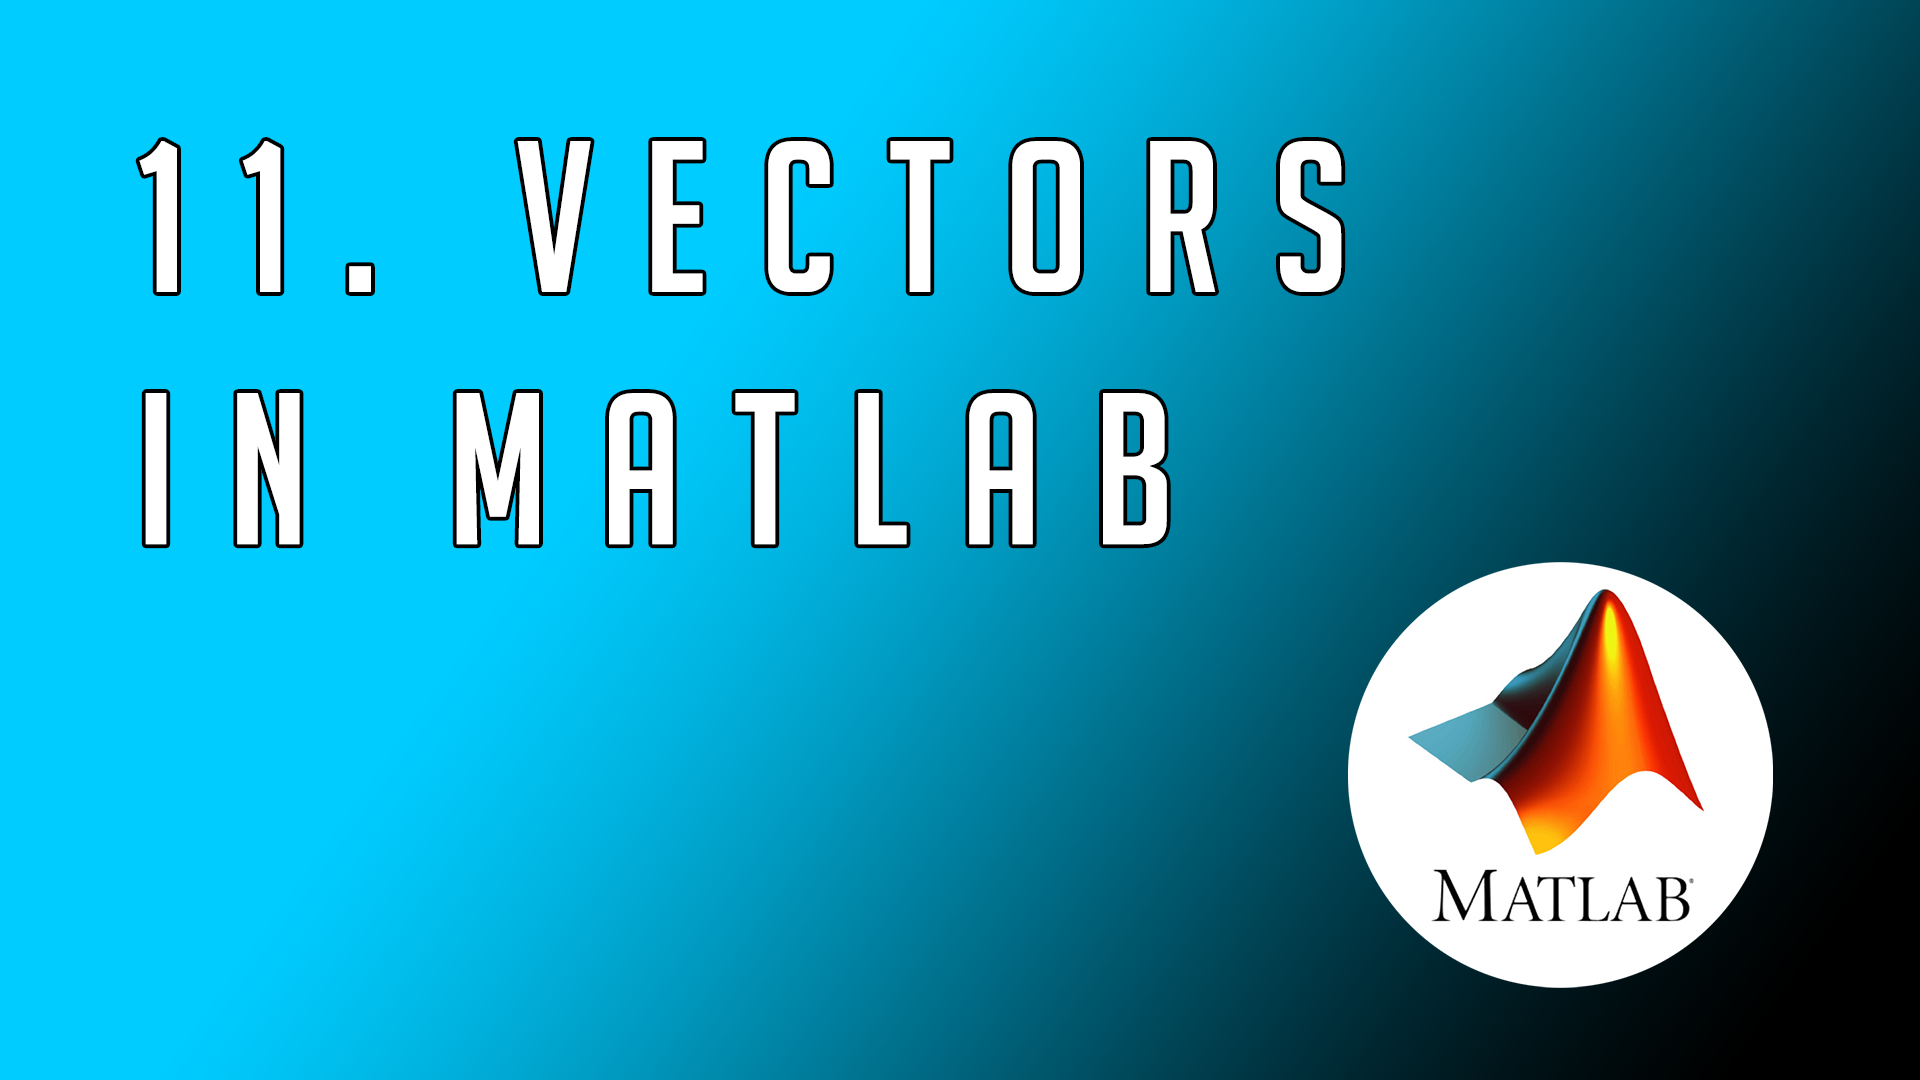
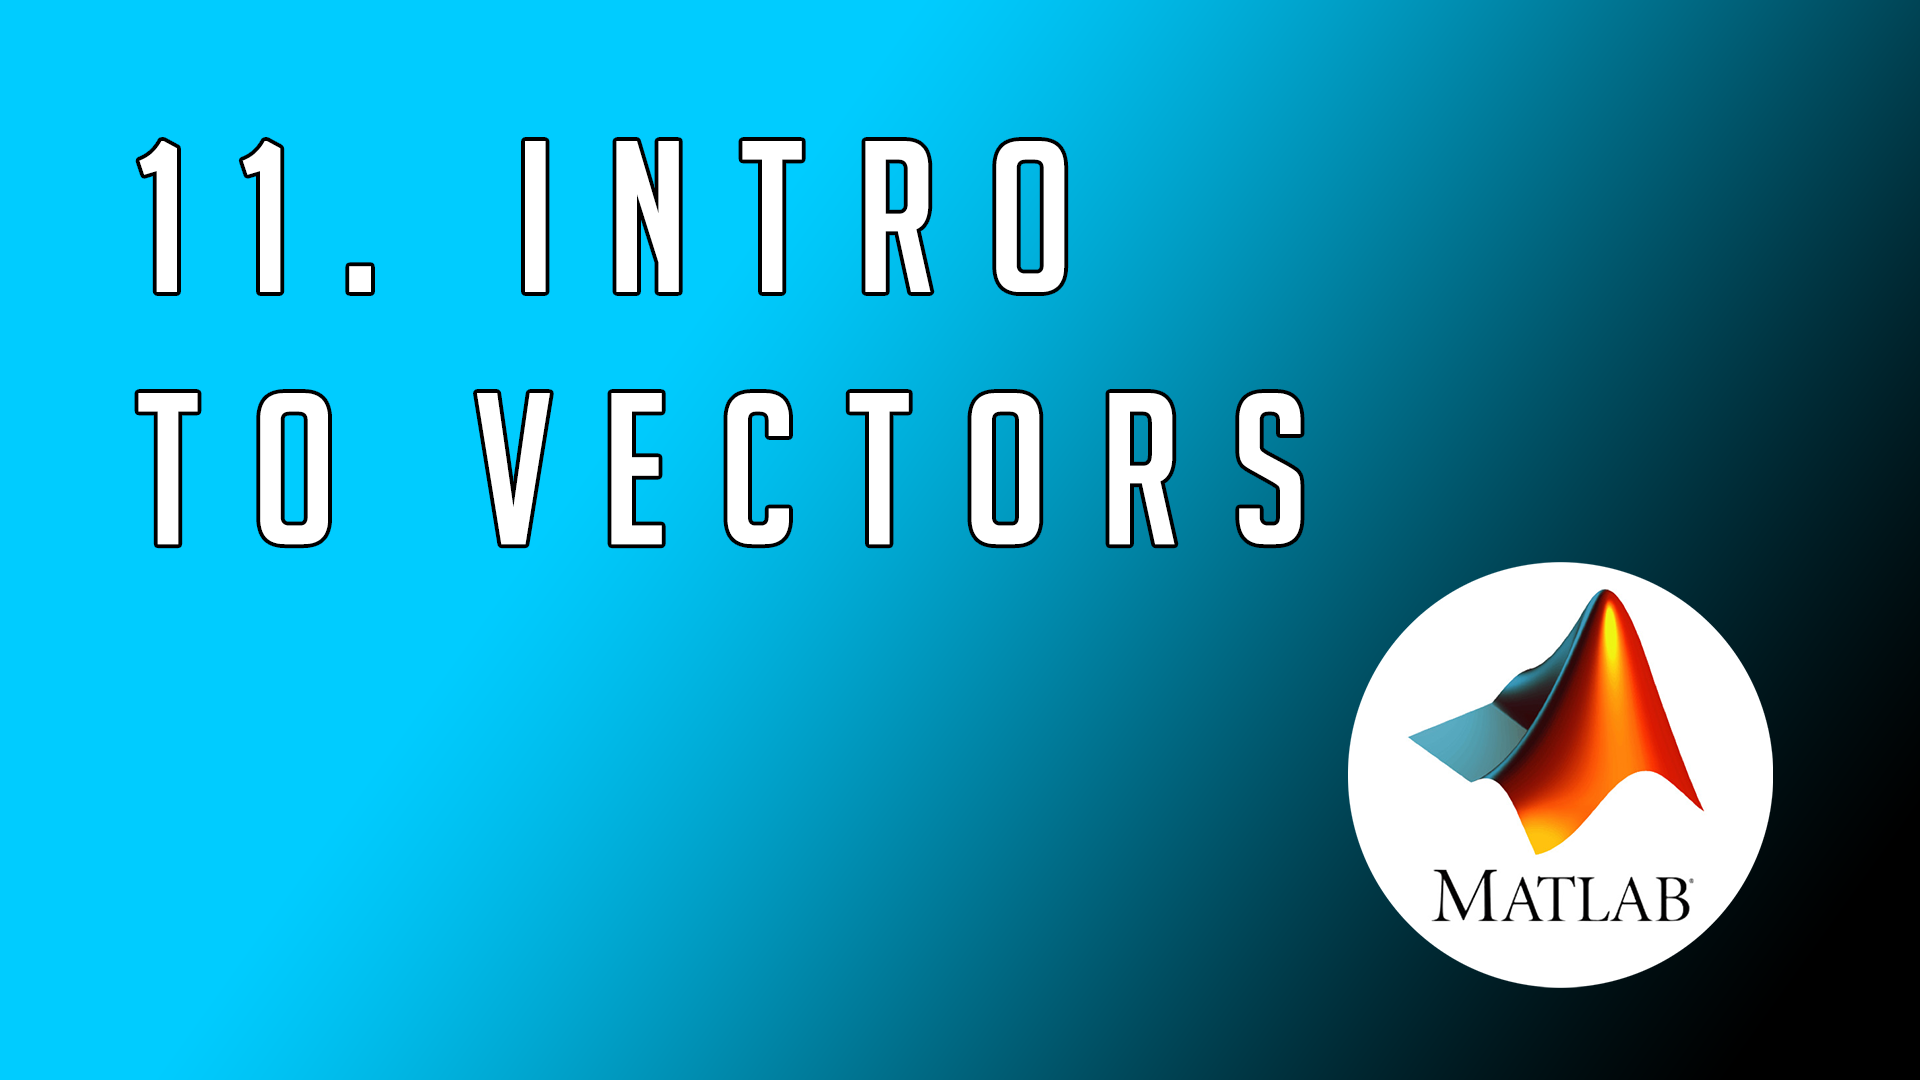
Update

diff --git a/Code/EleventhVideo.m b/Code/EleventhVideo.m
@@ -1,0 +1,48 @@
+% MATLAB Video #11 - Introduction to Vectors
+% November, 11th 2019
+% Jousef Murad - www.engineered-mind.com
+% MATLAB Version - R2019b
+
+%% What tensors are we dealing with?
+
+% 0-dim tensor --> Scalar
+% 1-dim tensor --> Vector
+% 2-dim tensor --> Matrix
+% also tensors of higher order possible - not that relevant as for now ;-)
+
+clc, clear, close all
+
+%% Section 1 - Creating vectors
+
+theFirstVector = [1 2 3 4 5 6];
+
+theSecondVector = [1;2;3;4;5;6];
+
+theFirstVectorTranspose = theFirstVector'; % faster option
+
+accessVector1 = theFirstVector(3);
+
+%accessVector2 = theFirstVector(7);
+
+%% Section 2 - Colon Operator
+
+x = 1:10;
+
+y = 1:0.5:4;
+
+z = 10:-1:1;
+
+%% Section 3 - Linspace
+
+testVec = linspace(1, 20000); % only creates 100 numbers!!
+
+testVec2 = linspace(1, 20000, 11); % number of generated values for the given range
+
+%% Section 4 - Combining new knowledge
+
+concatVec = [x z] % Concatenating vectors will follow in a later episode!
+
+% Feel free to play around with new vectors and try new fancy stuff, you
+% might run into trouble at some point as there are some rules and
+% conditions on vectors/matrices etc. but you will learn everything quickly
+% with the upcoming episodes on vectors
